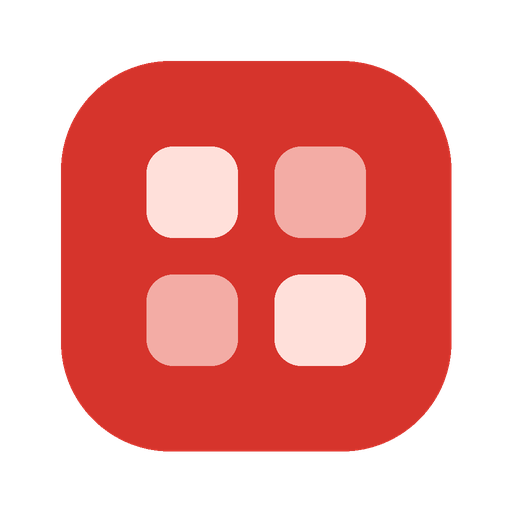
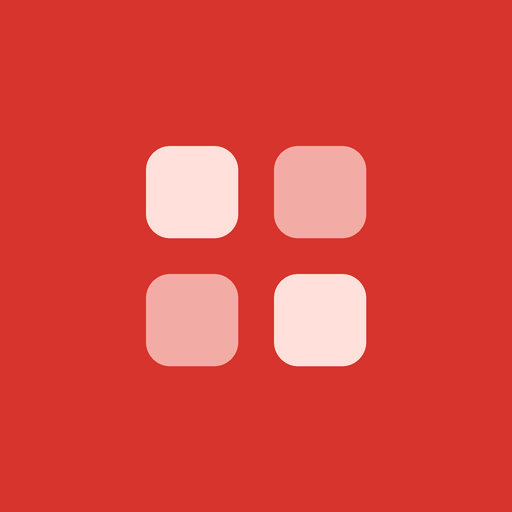
fix(v=47): maskable 아이콘 흰 테두리 제거 — full-bleed 512/192 교체 · sw 캐시 v2 · 아이콘 ?v=2

diff --git a/sw.js b/sw.js
@@ -1,4 +1,4 @@
-/* 모아 어드민 서비스 워커(2026-11-25 v=47)
+/* 모아 어드민 서비스 워커(2026-11-25 v=47 · maskable 아이콘 full-bleed 교체)
  *
  * 하는 일은 하나다 — 폰 홈 화면에 설치한 어드민이 인터넷이 잠깐 끊겨도 '연결 없음' 안내로 열리게 하고,
  * 그 밖의 모든 요청은 브라우저 기본 동작(fetch pass-through)에 맡긴다. 저장(PUT)·로그인 요청은 건드리지 않는다.
@@ -6,7 +6,7 @@
  *  - 그 밖의 요청: 가로채지 않는다(스크립트·아이콘·복지모아 API 모두 항상 최신·실시간).
  * 캐시에는 어드민 화면 한 장만 들어간다(개인 재무 표·토큰·아이디는 서비스 워커가 저장하지 않는다).
  */
-const CACHE = "moa-admin-shell-v1";
+const CACHE = "moa-admin-shell-v2";
 const SHELL = new URL("./", self.location.href).href;
 const OFFLINE_HTML =
   "<!doctype html><html lang=\"ko\"><head><meta charset=\"utf-8\">" +

diff --git a/README.md b/README.md
@@ -76,6 +76,9 @@
 ### 3. 앱 설치(PWA) · 탭 순서
 
 - `manifest.webmanifest`(display standalone·theme #d6342c·192/512 아이콘+maskable), `sw.js`(화면 이동만 네트워크 우선, 실패 시 마지막 화면/안내), `icons/`, `assets/js/pwa.js`.
+- **maskable 아이콘은 full-bleed**(2026-11-25) — `icons/icon-maskable-192.png`·`icon-maskable-512.png` 는 캔버스 끝까지 `#d6342c` 가 꽉 차고 투명 픽셀이 없습니다.
+  둥근 사각형 바깥을 투명으로 두면 안드로이드 런처 마스킹 때 그 여백이 흰색으로 채워져 **홈 화면 아이콘에 흰 테두리**가 생깁니다.
+  가운데 4칸 그리드는 기존 비율(안전 영역 안쪽) 그대로이고, manifest 경로에는 `?v=2` 로 캐시를 비켜 갑니다(생성: `work/pwa-icons/gen_maskable.py`).
 - 상단 바에 **📲 앱 설치** 버튼 — `beforeinstallprompt` 가 왔을 때만 나타나고, 누르면 설치 다이얼로그가 뜹니다.
   이미 `standalone` 으로 열려 있거나 설치가 끝나면 숨김(아이폰 사파리는 ‘공유 → 홈 화면에 추가’ 안내).
 - 상단 탭 순서: **👥 가입자·글 → ① 공지·팝업 → ② 탭·섹션 순서 → ③ 문구 → ④ 문의 → ⑤ 저장·배포 → 📊 통계 → 💰 개인 재무**.
